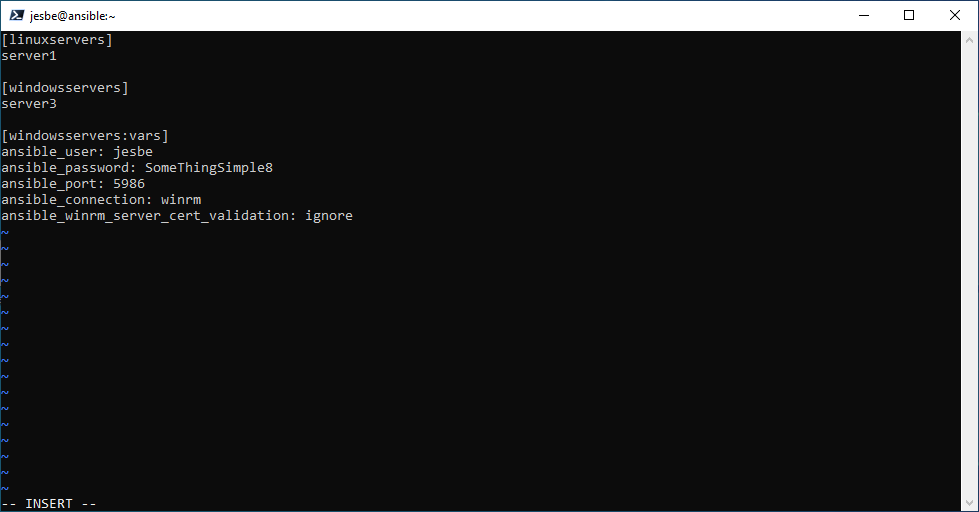
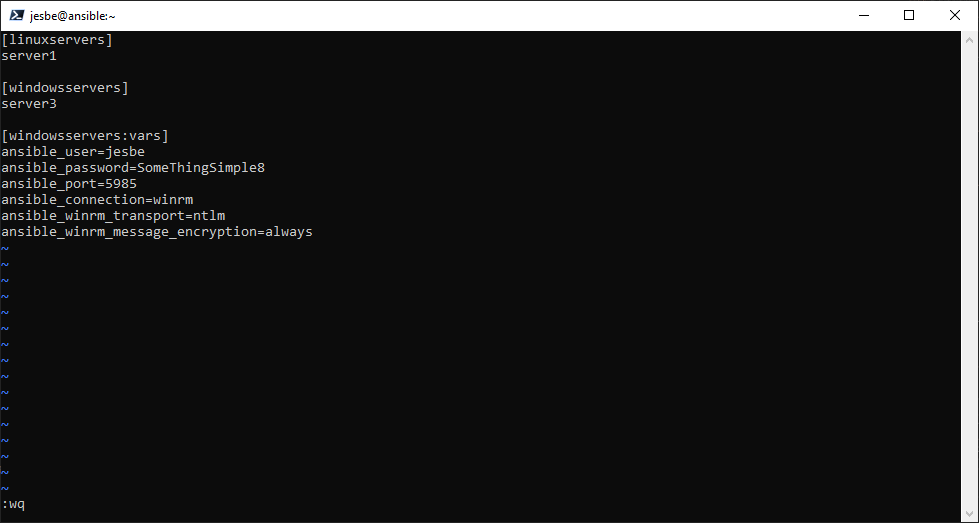
changes to windows lab

diff --git a/lab01/lab1.md b/lab01/lab1.md
@@ -171,7 +171,6 @@ ansible linuxservers -m ping
 
 when it asks "Are you sure you want to continue connecting (yes/no)?" type yes
 
-
 ![Alt text](pics/009_connect_error.png?raw=true "Connect Error")
 
 Connection will fail, as ansible expects passwordless ssh connections to be established before running
@@ -291,26 +290,9 @@ ansible linuxservers -m systemd -a "name=cockpit.socket state=started enabled=ye
 
 ## Task 4: Connect Windows Host
 
-Connect to server3 using RDP, you can get the link in the Azure Portal
+Windows Servers can be connected in different ways, we will use ansible_messageencryption, but Certificate encryption is available, use this link to setup certificates
 
-User name is __username__ as entered when we created the lab environement 
-
-We need to enable Windows Remote Management on the server
-
-Start a powershell console with elevated rights (Run As Administrator) and run the following commands
-
-__Type:__
-
-```powershell
-$url = "https://raw.githubusercontent.com/ansible/ansible/devel/examples/scripts/ConfigureRemotingForAnsible.ps1"
-$file = "$env:temp\ConfigureRemotingForAnsible.ps1"
-
-(New-Object -TypeName System.Net.WebClient).DownloadFile($url, $file)
-
-powershell.exe -ExecutionPolicy ByPass -File $file
-```
-
-![Alt text](pics/018_enable_winrm.png?raw=true "enable winRm")
+[Windows Certificate Lab](lab1_win_cert.md)
 
 Lets add the windows server to our ansible hosts file
 
@@ -326,7 +308,7 @@ pip3 install pywinrm --user
 
 ![Alt text](pics/019_install_pywinrm.png?raw=true "enable winRm")
 
-Yes the password is in clear text, we will look into this later
+Yes the password is in clear text, you can encrypt the password with ansible-vault
 
 __Note:__
 
@@ -345,9 +327,10 @@ server3
 [windowsservers:vars]
 ansible_user=jesbe
 ansible_password=SomeThingSimple8
-ansible_port=5986
+ansible_port=5985
 ansible_connection=winrm
-ansible_winrm_server_cert_validation=ignore
+ansible_winrm_transport=ntlm
+ansible_winrm_message_encryption=always
 ```
 
 __Type:__

diff --git a/lab01/lab1_win_cert.md b/lab01/lab1_win_cert.md
@@ -1,0 +1,82 @@
+# Windows Server with Certificate
+
+## Task 4: Connect Windows Host
+
+Connect to server3 using RDP, you can get the link in the Azure Portal
+
+User name is __username__ as entered when we created the lab environement
+
+We need to enable Windows Remote Management on the server
+
+Start a powershell console with elevated rights (Run As Administrator) and run the following commands
+
+__Type:__
+
+```powershell
+$url = "https://raw.githubusercontent.com/ansible/ansible/devel/examples/scripts/ConfigureRemotingForAnsible.ps1"
+$file = "$env:temp\ConfigureRemotingForAnsible.ps1"
+
+(New-Object -TypeName System.Net.WebClient).DownloadFile($url, $file)
+
+powershell.exe -ExecutionPolicy ByPass -File $file
+```
+
+![Alt text](pics/018_enable_winrm.png?raw=true "enable winRm")
+
+Lets add the windows server to our ansible hosts file
+
+Log on to server "ansible" using ssh
+
+We need to install pywinrm before being able to connect to windows servers from ansible
+
+__Type:__
+
+```bash
+pip3 install pywinrm --user
+```
+
+![Alt text](pics/019_install_pywinrm.png?raw=true "enable winRm")
+
+Yes the password is in clear text, we will look into this later
+
+__Note:__
+
+Change ansible_user and ansible_password to your username and password
+
+__Type:__
+
+```bash
+vi ansible-hosts
+
+i (for input)
+
+[windowsservers]
+server3
+
+[windowsservers:vars]
+ansible_user=jesbe
+ansible_password=SomeThingSimple8
+ansible_port=5986
+ansible_connection=winrm
+ansible_winrm_server_cert_validation=ignore
+```
+
+__Type:__
+
+```bash
+Hit Esc-key
+
+:wq (: for a command w for write and q for quit vi)
+```
+
+![Alt text](pics/020_winrm_hostsfile.png?raw=true "hosts file winRm")
+
+Lets test connection to the Windows server
+
+__Type:__
+
+```bash
+ansible windowsservers -m win_ping
+```
+
+![Alt text](pics/021_ansible_win_ping.png?raw=true "win_ping")
